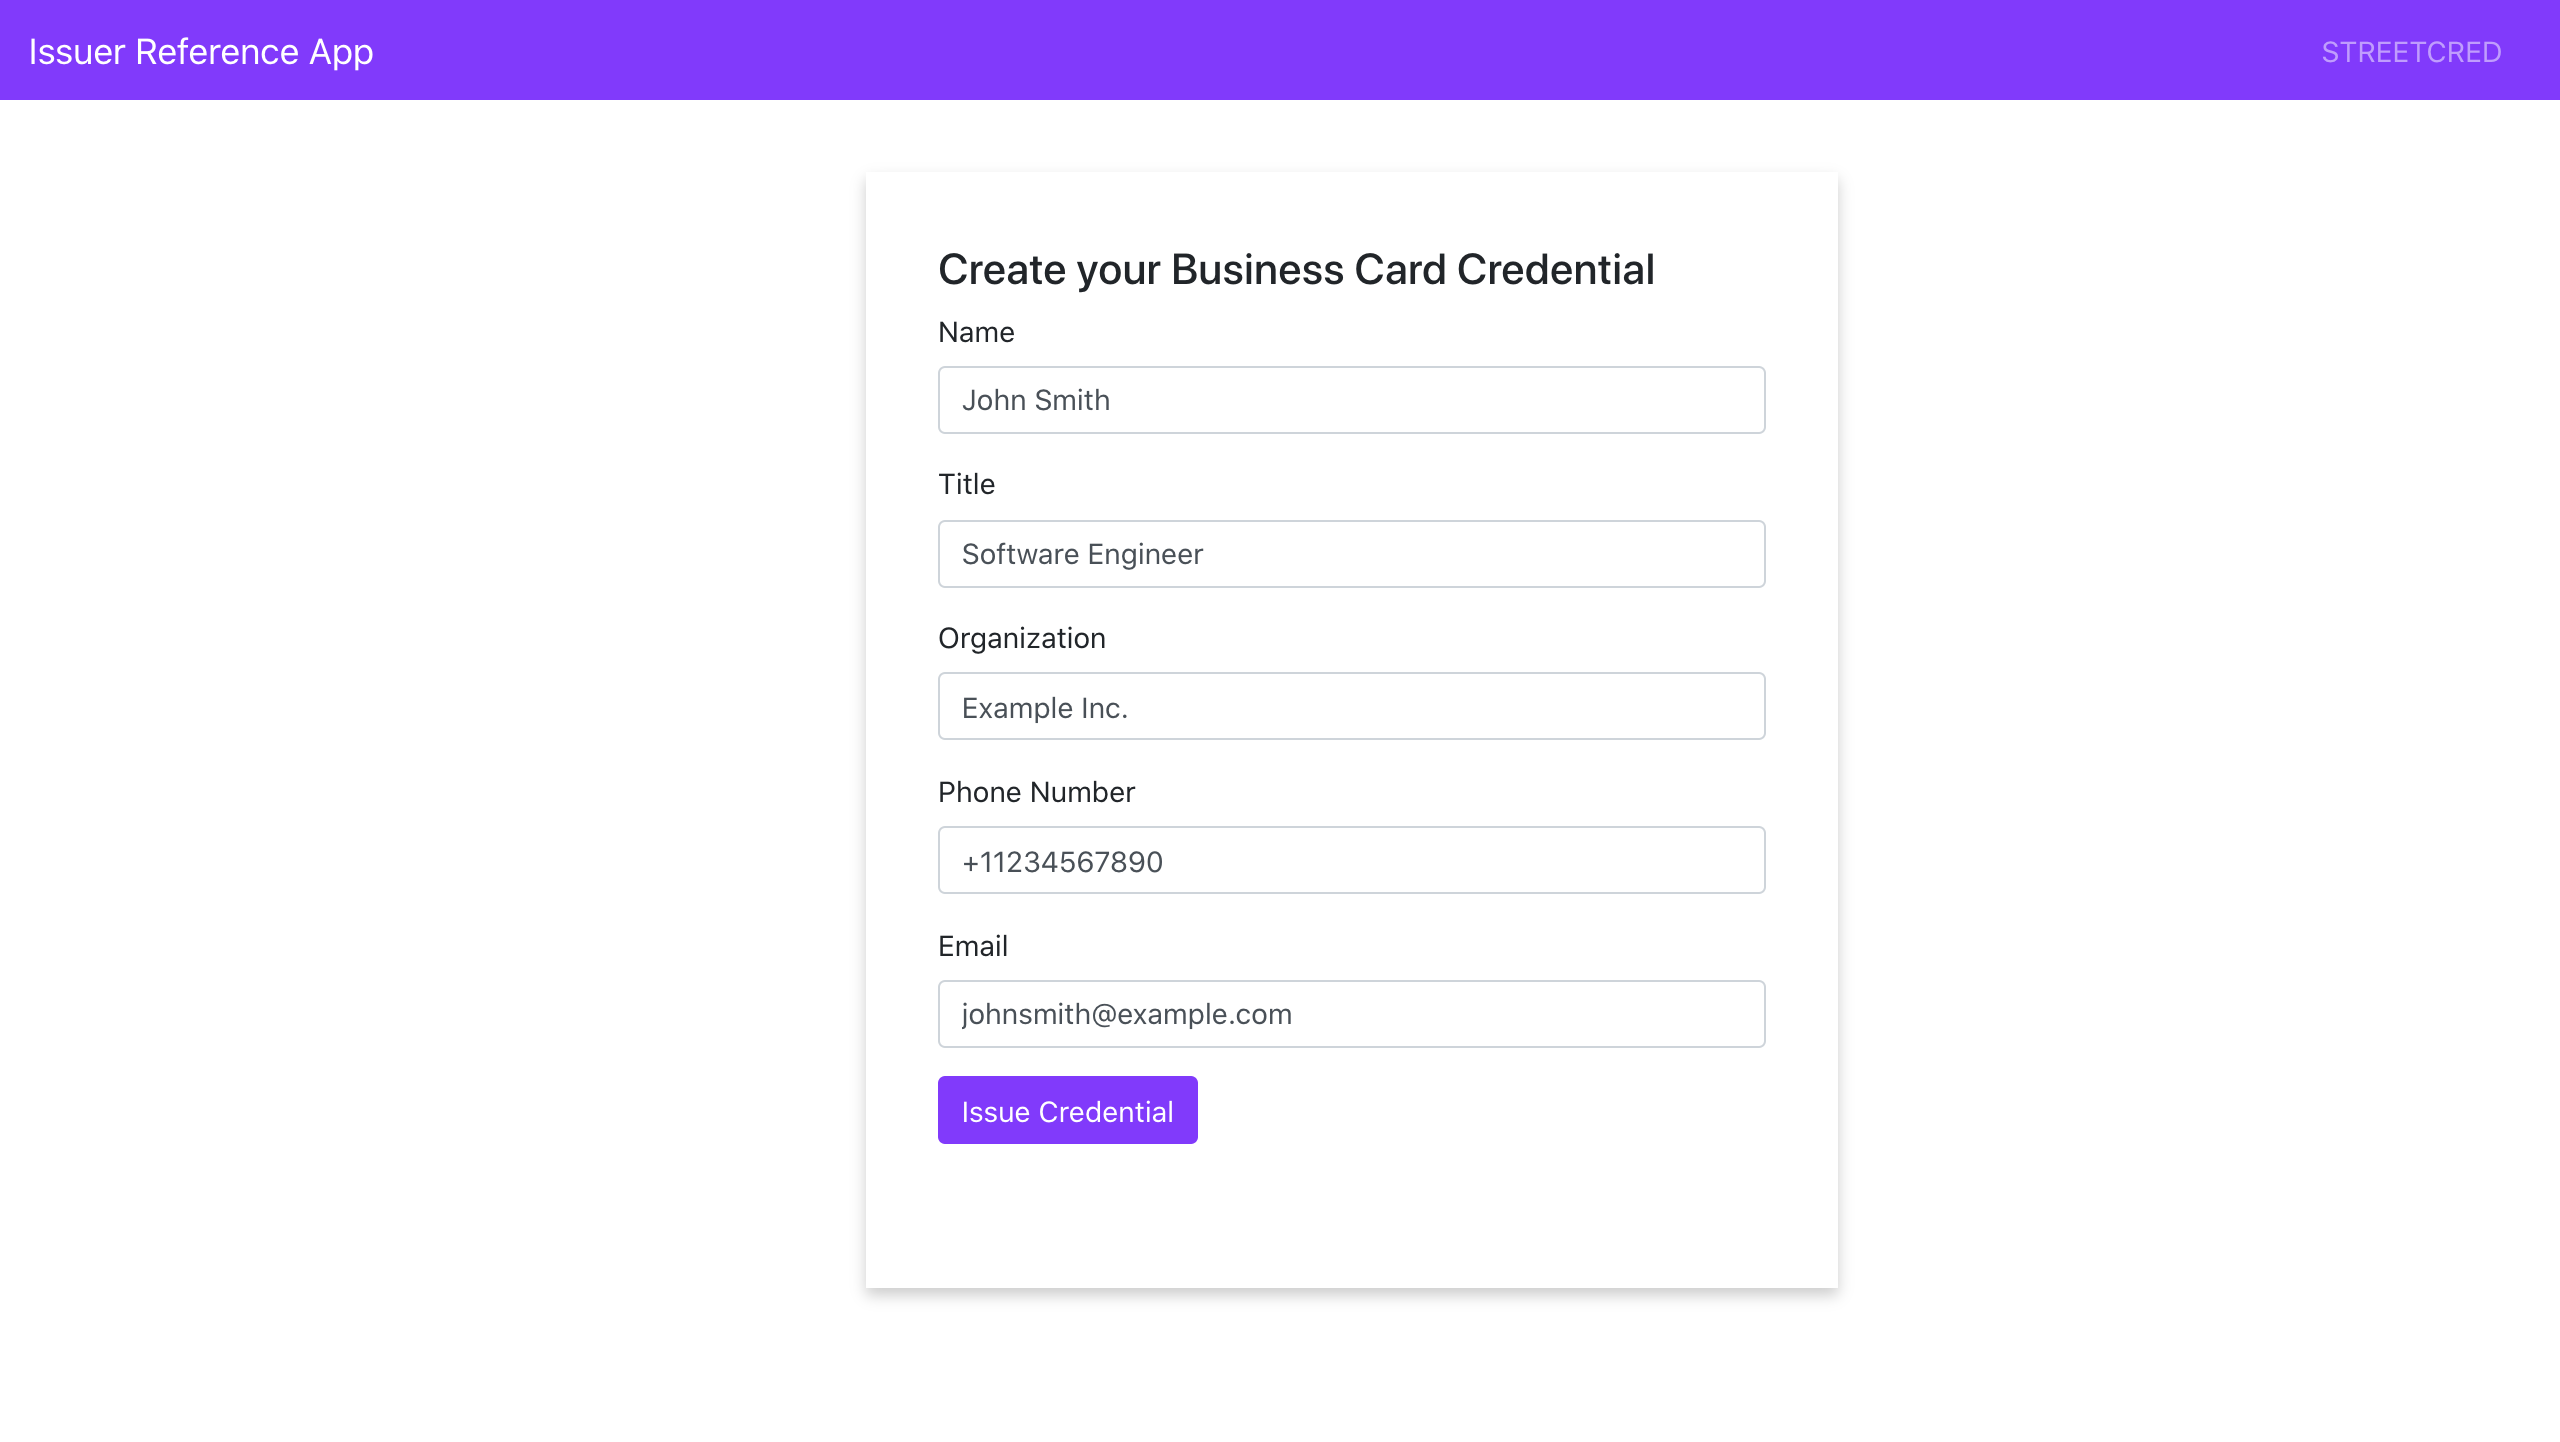
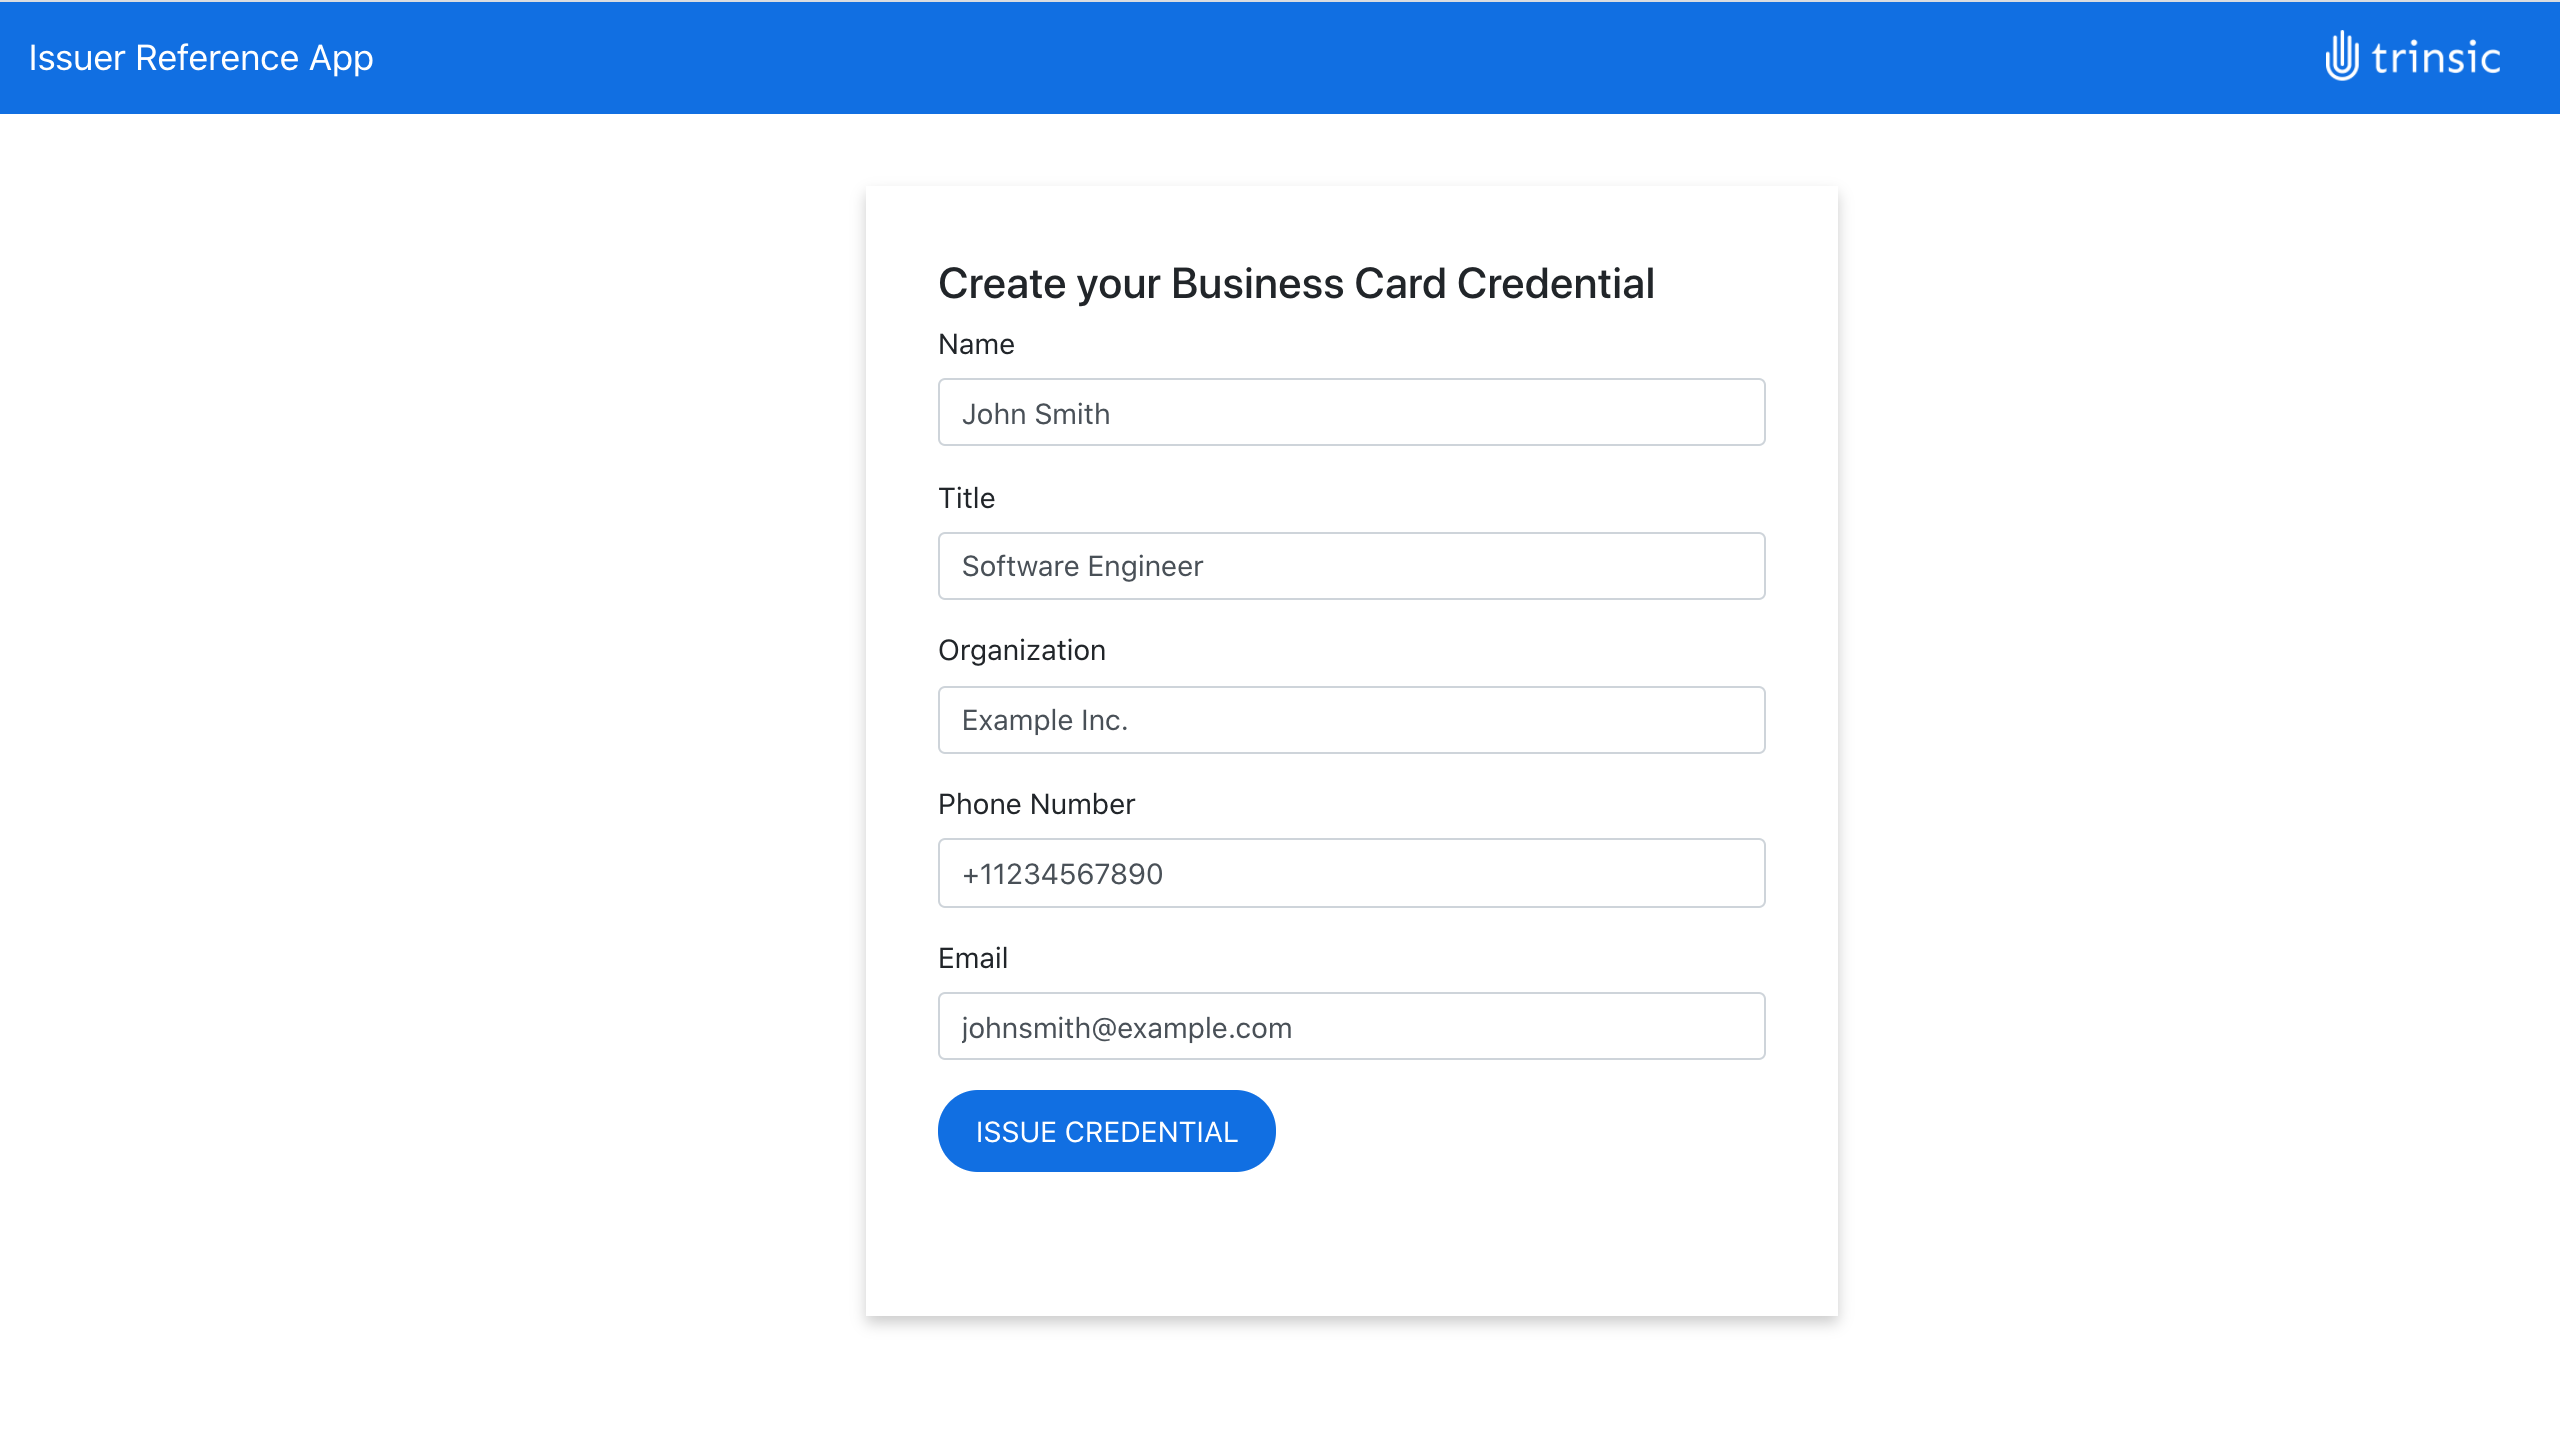
Change color scheme and update images

diff --git a/public/index.html b/public/index.html
@@ -14,7 +14,7 @@
 <!--Navbar-->
 <nav id="navbar" class="navbar navbar-dark">
   <a class="navbar-brand nav-element" href="#">Issuer Reference App</a>
-  <a class="nav-link nav-element navbar-text" href="https://streetcred.id" target="_blank">STREETCRED</a>
+  <a class="nav-link nav-element navbar-text" href="https://trinsic.id" target="_blank"><img id="logo" src="images/trinsicLogo.png" alt="trinsic-logo"/></a>
 </nav>
 
 <!--Body-->
@@ -44,7 +44,7 @@
           <label for="email">Email</label>
           <input type="email" class="form-control" id="email">
         </div>
-        <button type="submit" class="btn btn-primary" id="submit-button" onclick="submit()">Issue Credential</button>
+        <button type="submit" class="btn btn-primary" id="submit-button" onclick="submit()">ISSUE CREDENTIAL</button>
       </div>
     </div>
     <div class="col"></div>

diff --git a/public/stylesheets/style.css b/public/stylesheets/style.css
@@ -1,5 +1,5 @@
 :root {
-  --primary-color: #812bff;
+  --primary-color: #006BE5;
 }
 
 body {
@@ -24,6 +24,12 @@ code {
   color: white;
 }
 
+#logo {
+  height: 30px;
+  padding: 0;
+  margin: 0;
+}
+
 #content {
   height: 100%;
   width: 100%;
@@ -35,6 +41,8 @@ code {
 #submit-button {
   background-color: var(--primary-color);
   border-color: var(--primary-color);
+  padding: 10px 20px;
+  border-radius: 30px;
 }
 
 /* The Modal */
